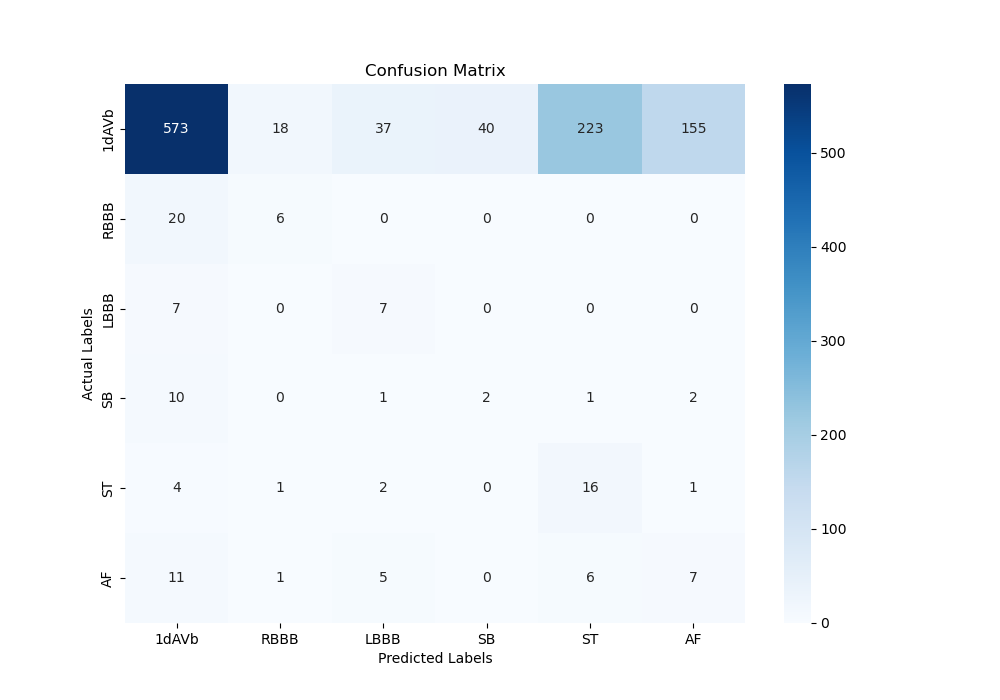
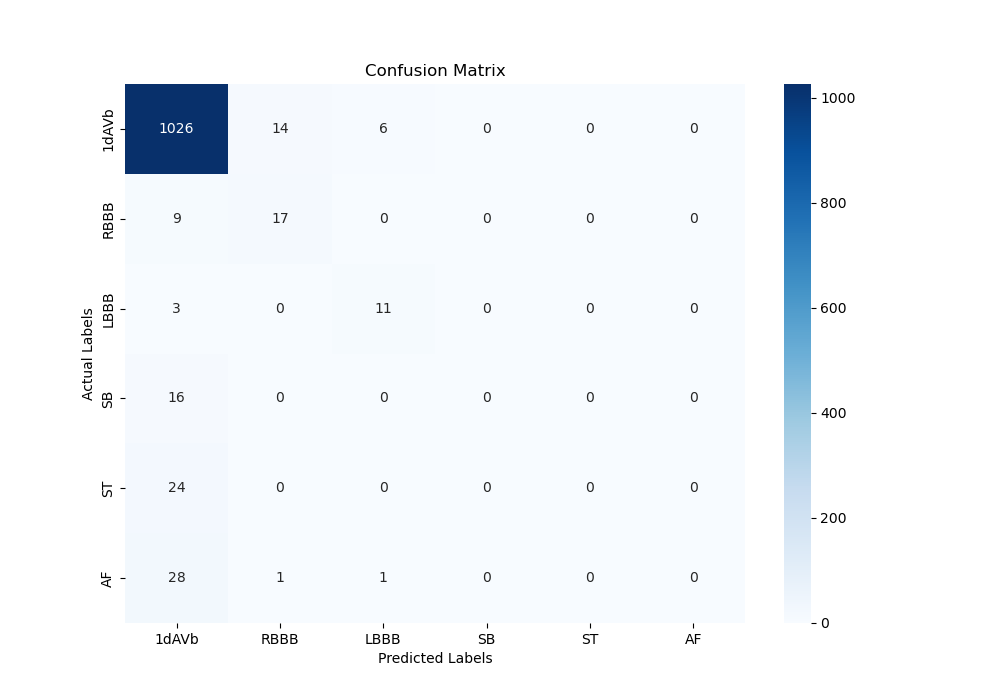
threshold manipulation

diff --git a/predict.py b/predict.py
@@ -59,7 +59,7 @@ if __name__ == "__main__":
     print(f"Output predictions saved to {args.output_file}")
     # Calculate metrics using true labels and predicted probabilities
     # Define a threshold for binary classification
-    threshold = 0.025
+    threshold = 0.5
     binary_predictions = (predictions > threshold).astype(int)
 
     accuracy = accuracy_score(true_labels, binary_predictions)
